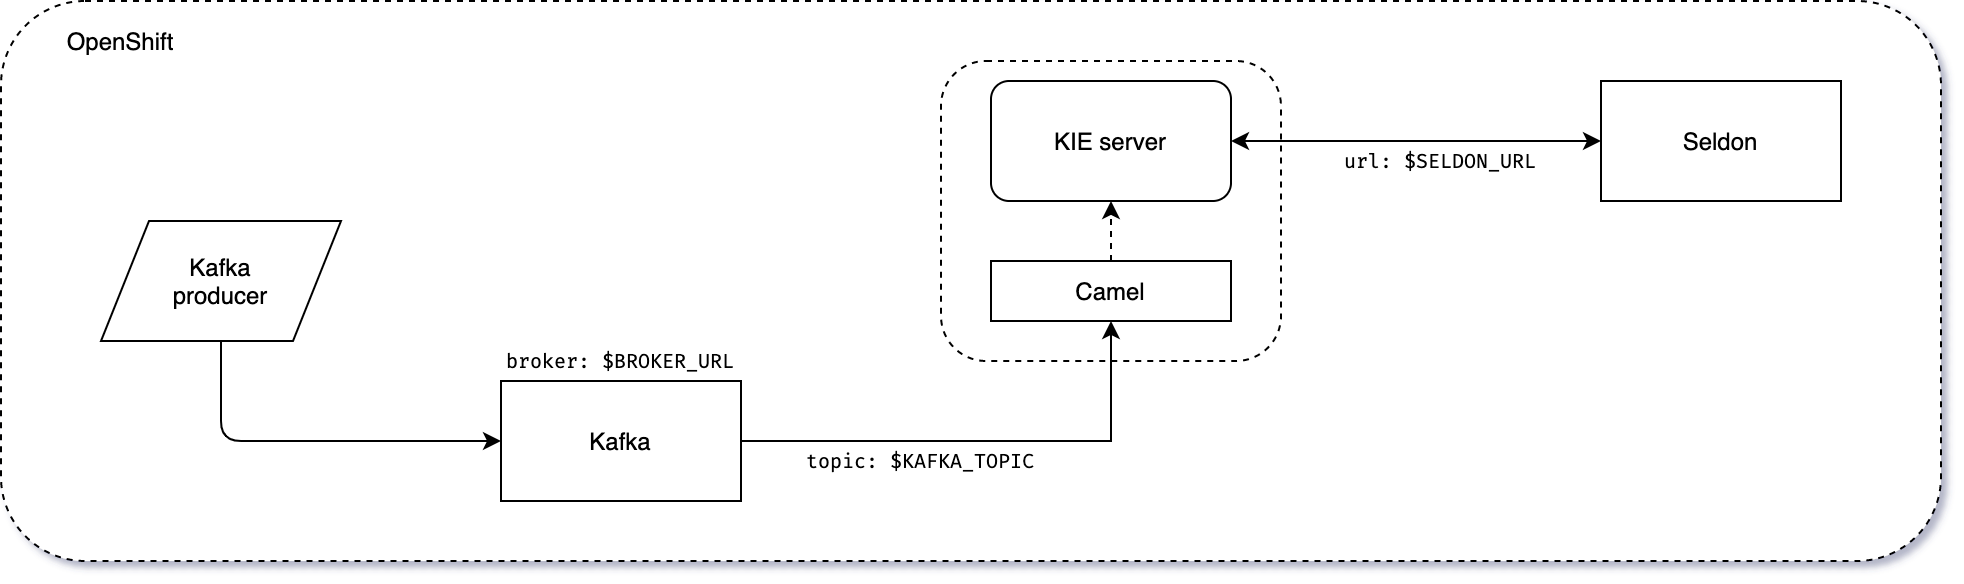
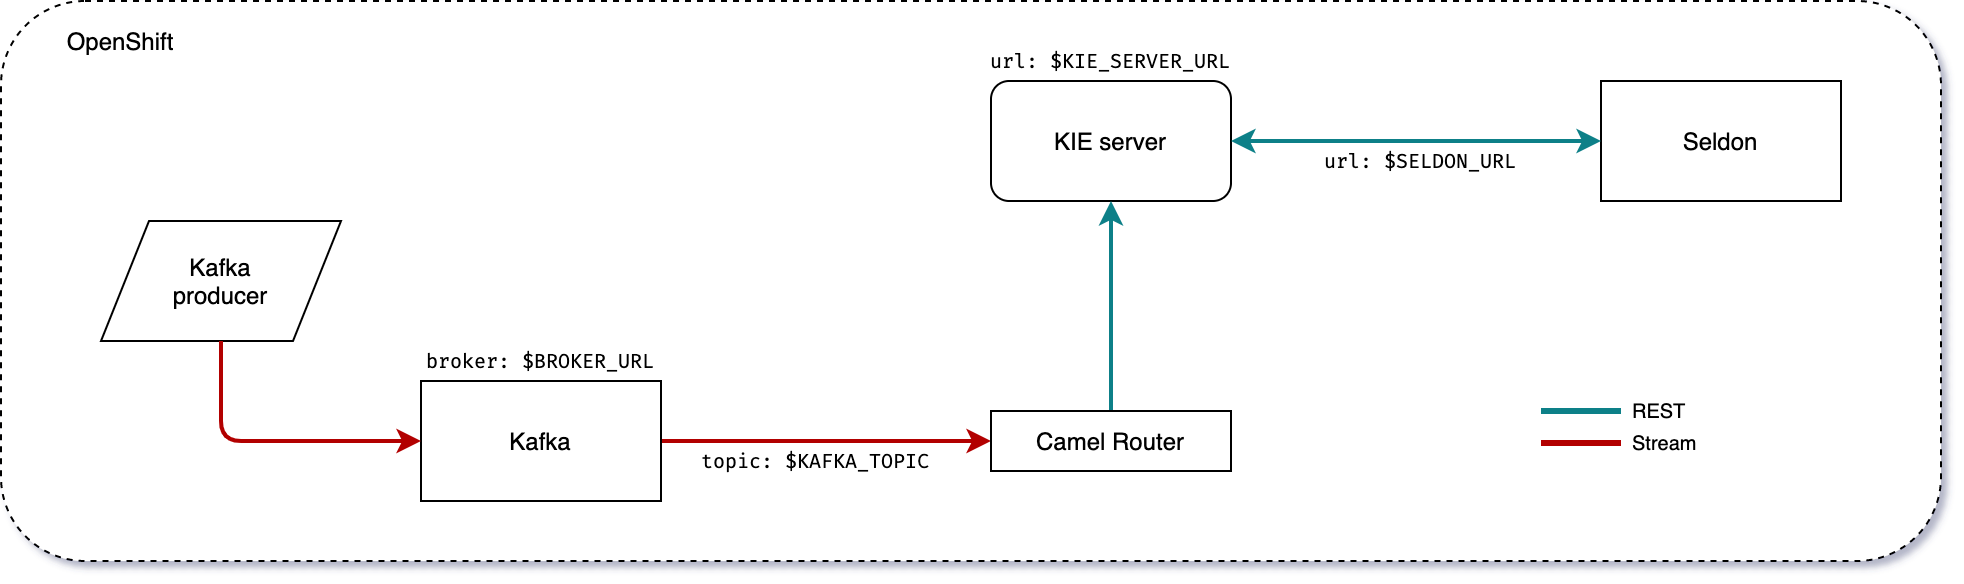
Remove Camel

diff --git a/ccd-service/src/main/java/dev/ruivieira/service/Application.java b/ccd-service/src/main/java/dev/ruivieira/service/Application.java
@@ -1,23 +1,13 @@
 package dev.ruivieira.service;
 
-import org.apache.camel.CamelContext;
-import org.apache.camel.component.jbpm.server.CamelKieServerExtension;
-import org.apache.camel.impl.DefaultCamelContext;
-import org.kie.server.services.api.KieServerExtension;
 import org.springframework.boot.SpringApplication;
 import org.springframework.boot.autoconfigure.SpringBootApplication;
-import org.springframework.context.annotation.Bean;
 
 @SpringBootApplication
 public class Application {
 
     public static void main(String[] args) {
         SpringApplication.run(Application.class, args);
-    }
-
-    @Bean
-    KieServerExtension camelExtension(CamelContext camel) {
-        return new CamelKieServerExtension((DefaultCamelContext) camel);
     }
 
 }

diff --git a/README.md b/README.md
@@ -86,9 +86,7 @@ One the image is built we create it on OpenShift with:
 
 ```shell
 $ oc new-app ccfd-service:1.0-SNAPSHOT \
-    -e BROKER_URL=<BROKER_URL> \
-    -e SELDON_URL=<SELDON_URL> \
-    -e KAFKA_TOPIC=<KAFKA_TOPIC>
+    -e SELDON_URL=<SELDON_URL>
 $ oc expose svc/ccfd-demo
 ```
 
@@ -96,6 +94,23 @@ If the Seldon server requires an authentication token, this can be passed to the
 
 ```shell
 -e SELDON_TOKEN=<SELDON_TOKEN>
+```
+
+#### Camel router
+
+The Camel router is responsible to trigger REST endpoints according to messages arriving in certain topics. To deploy a router with listens to the topic `KAFKA_TOPIC` from Kafka's broker `BROKER_URL` and starts a process instance on the KIE server at `KIE_SERVER_URL`, first build the [router located here](https://github.com/ruivieira/ccfd-fuse) with
+
+```shell
+$ mvn clean install -P openshift
+```
+
+and then deploy it with
+
+```shell
+$ oc new-app ccd-fuse:1.0-SNAPSHOT \
+    -e BROKER_URL=ccfd-kafka-brokers:9092 \
+    -e KAFKA_TOPIC=ccd \
+    -e KIE_SERVER_URL=ccd-service:8090
 ```
 
 
